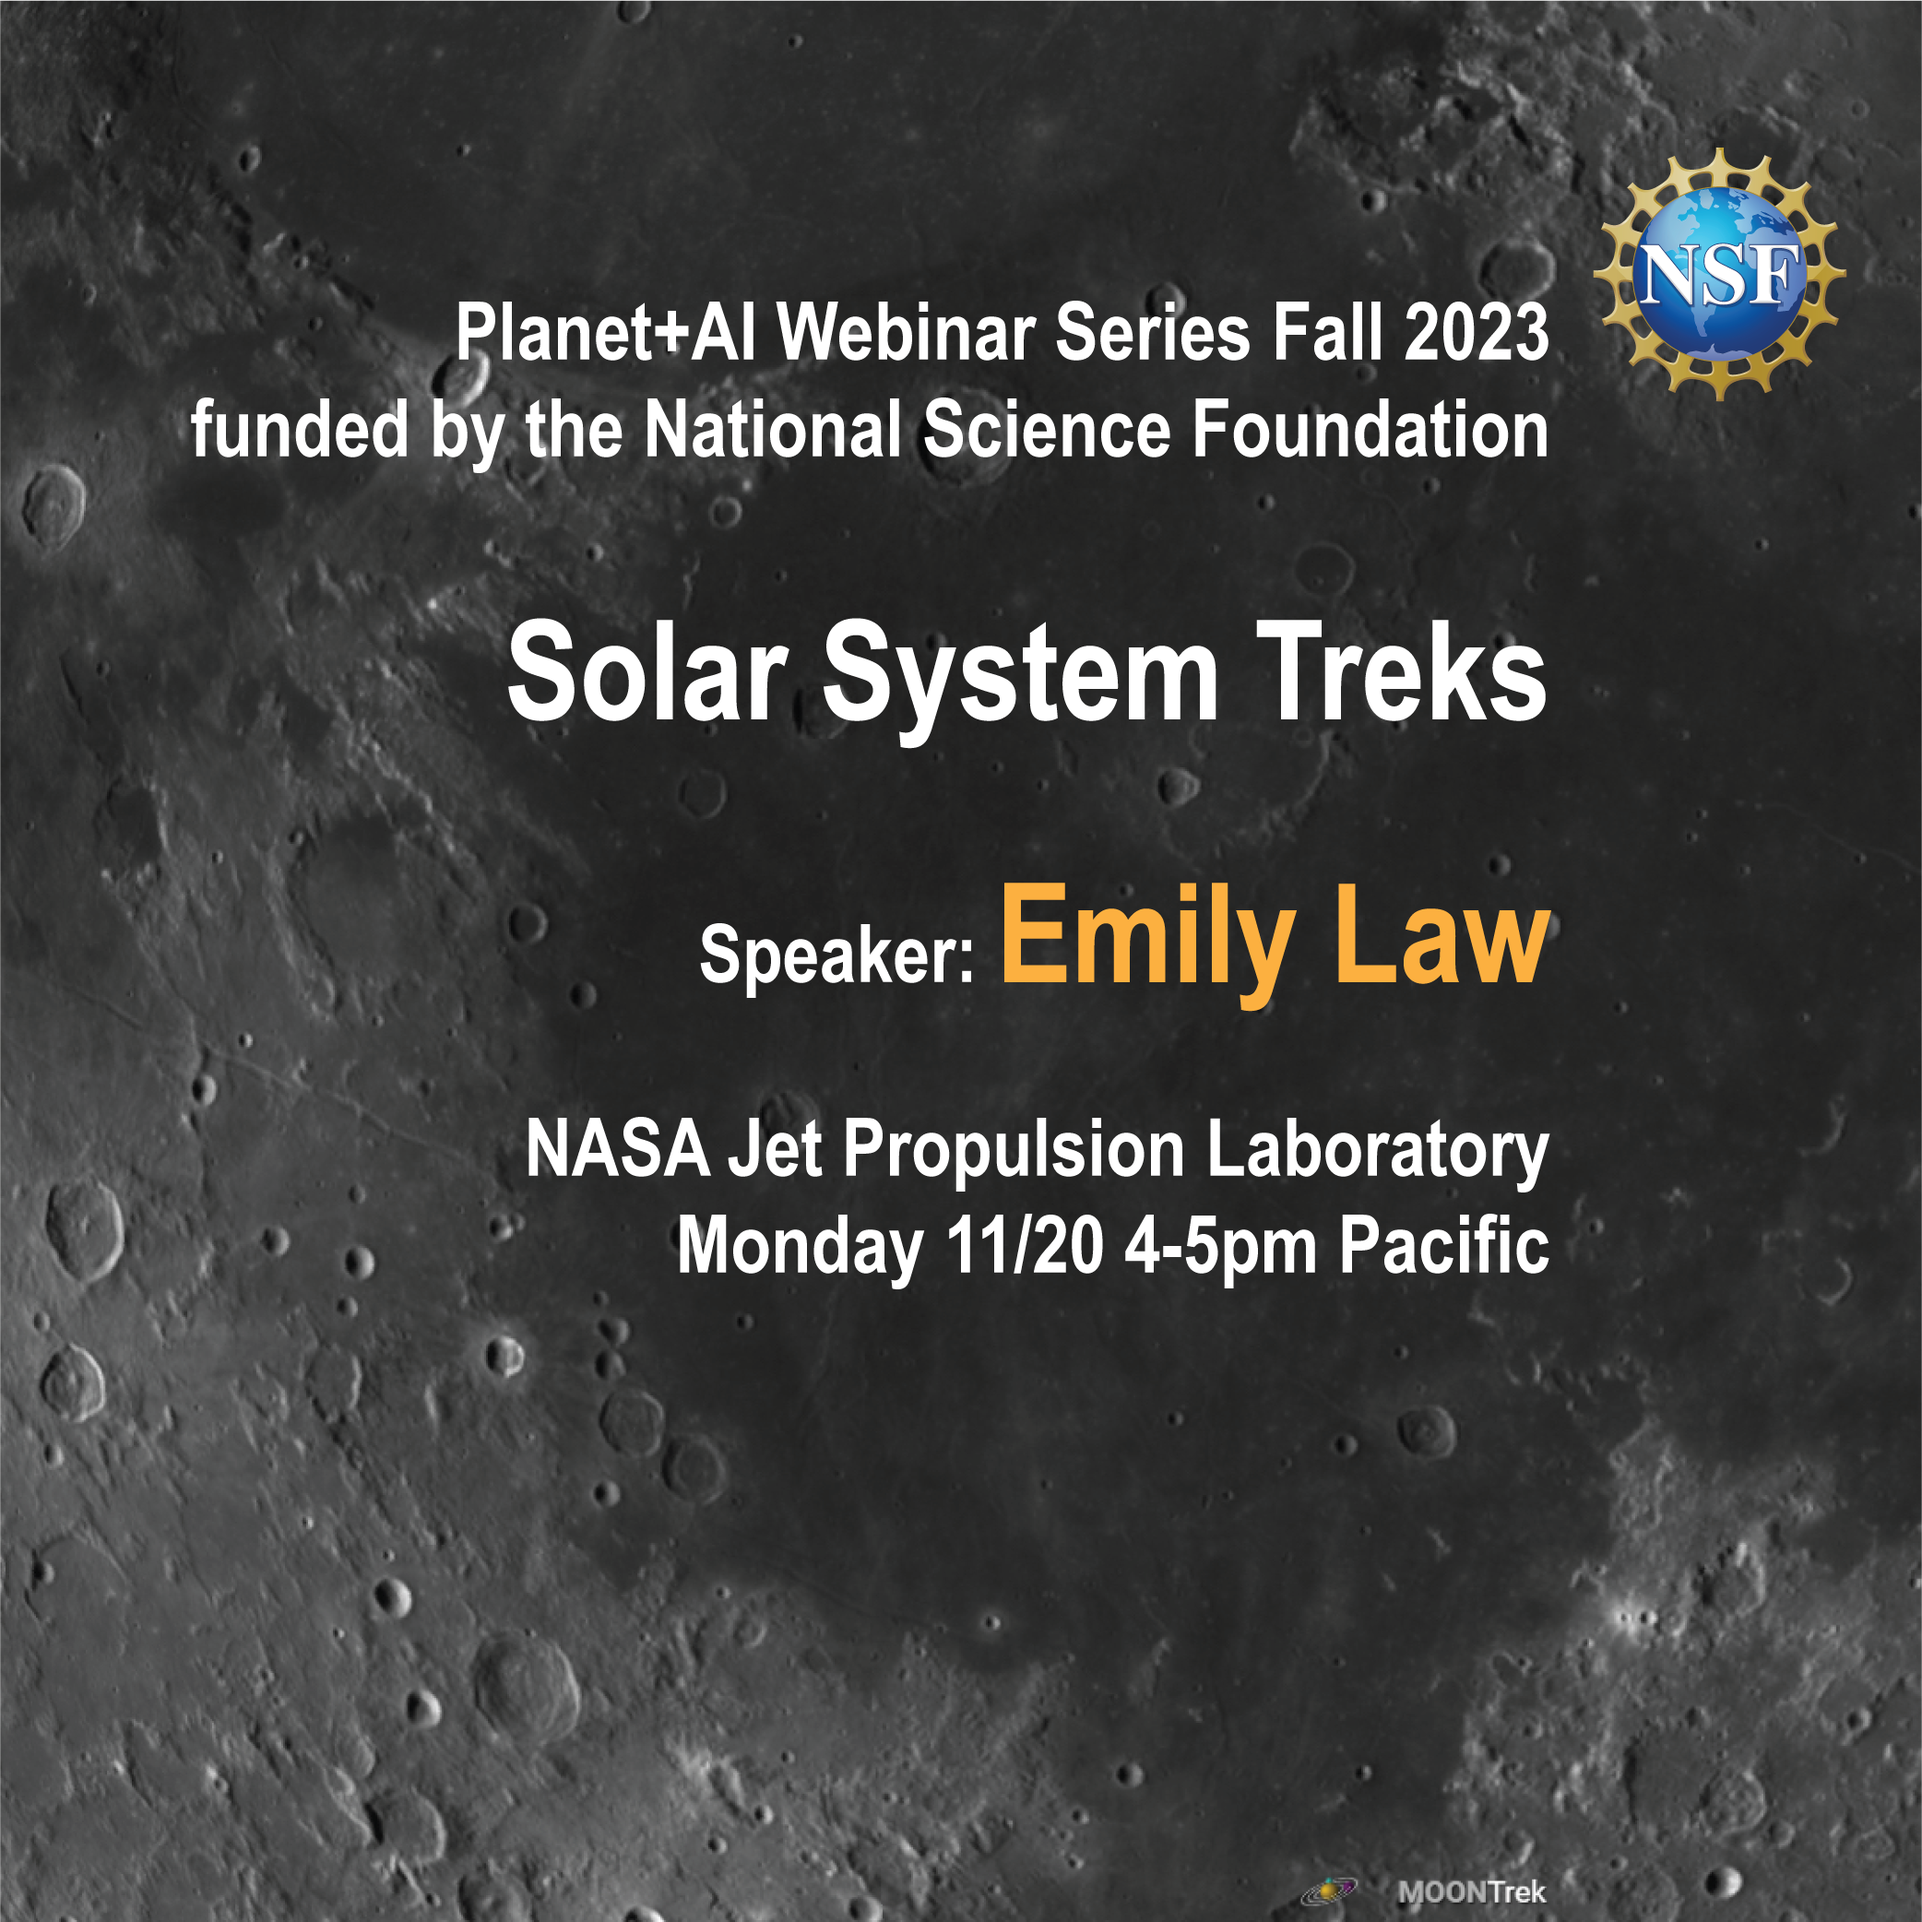
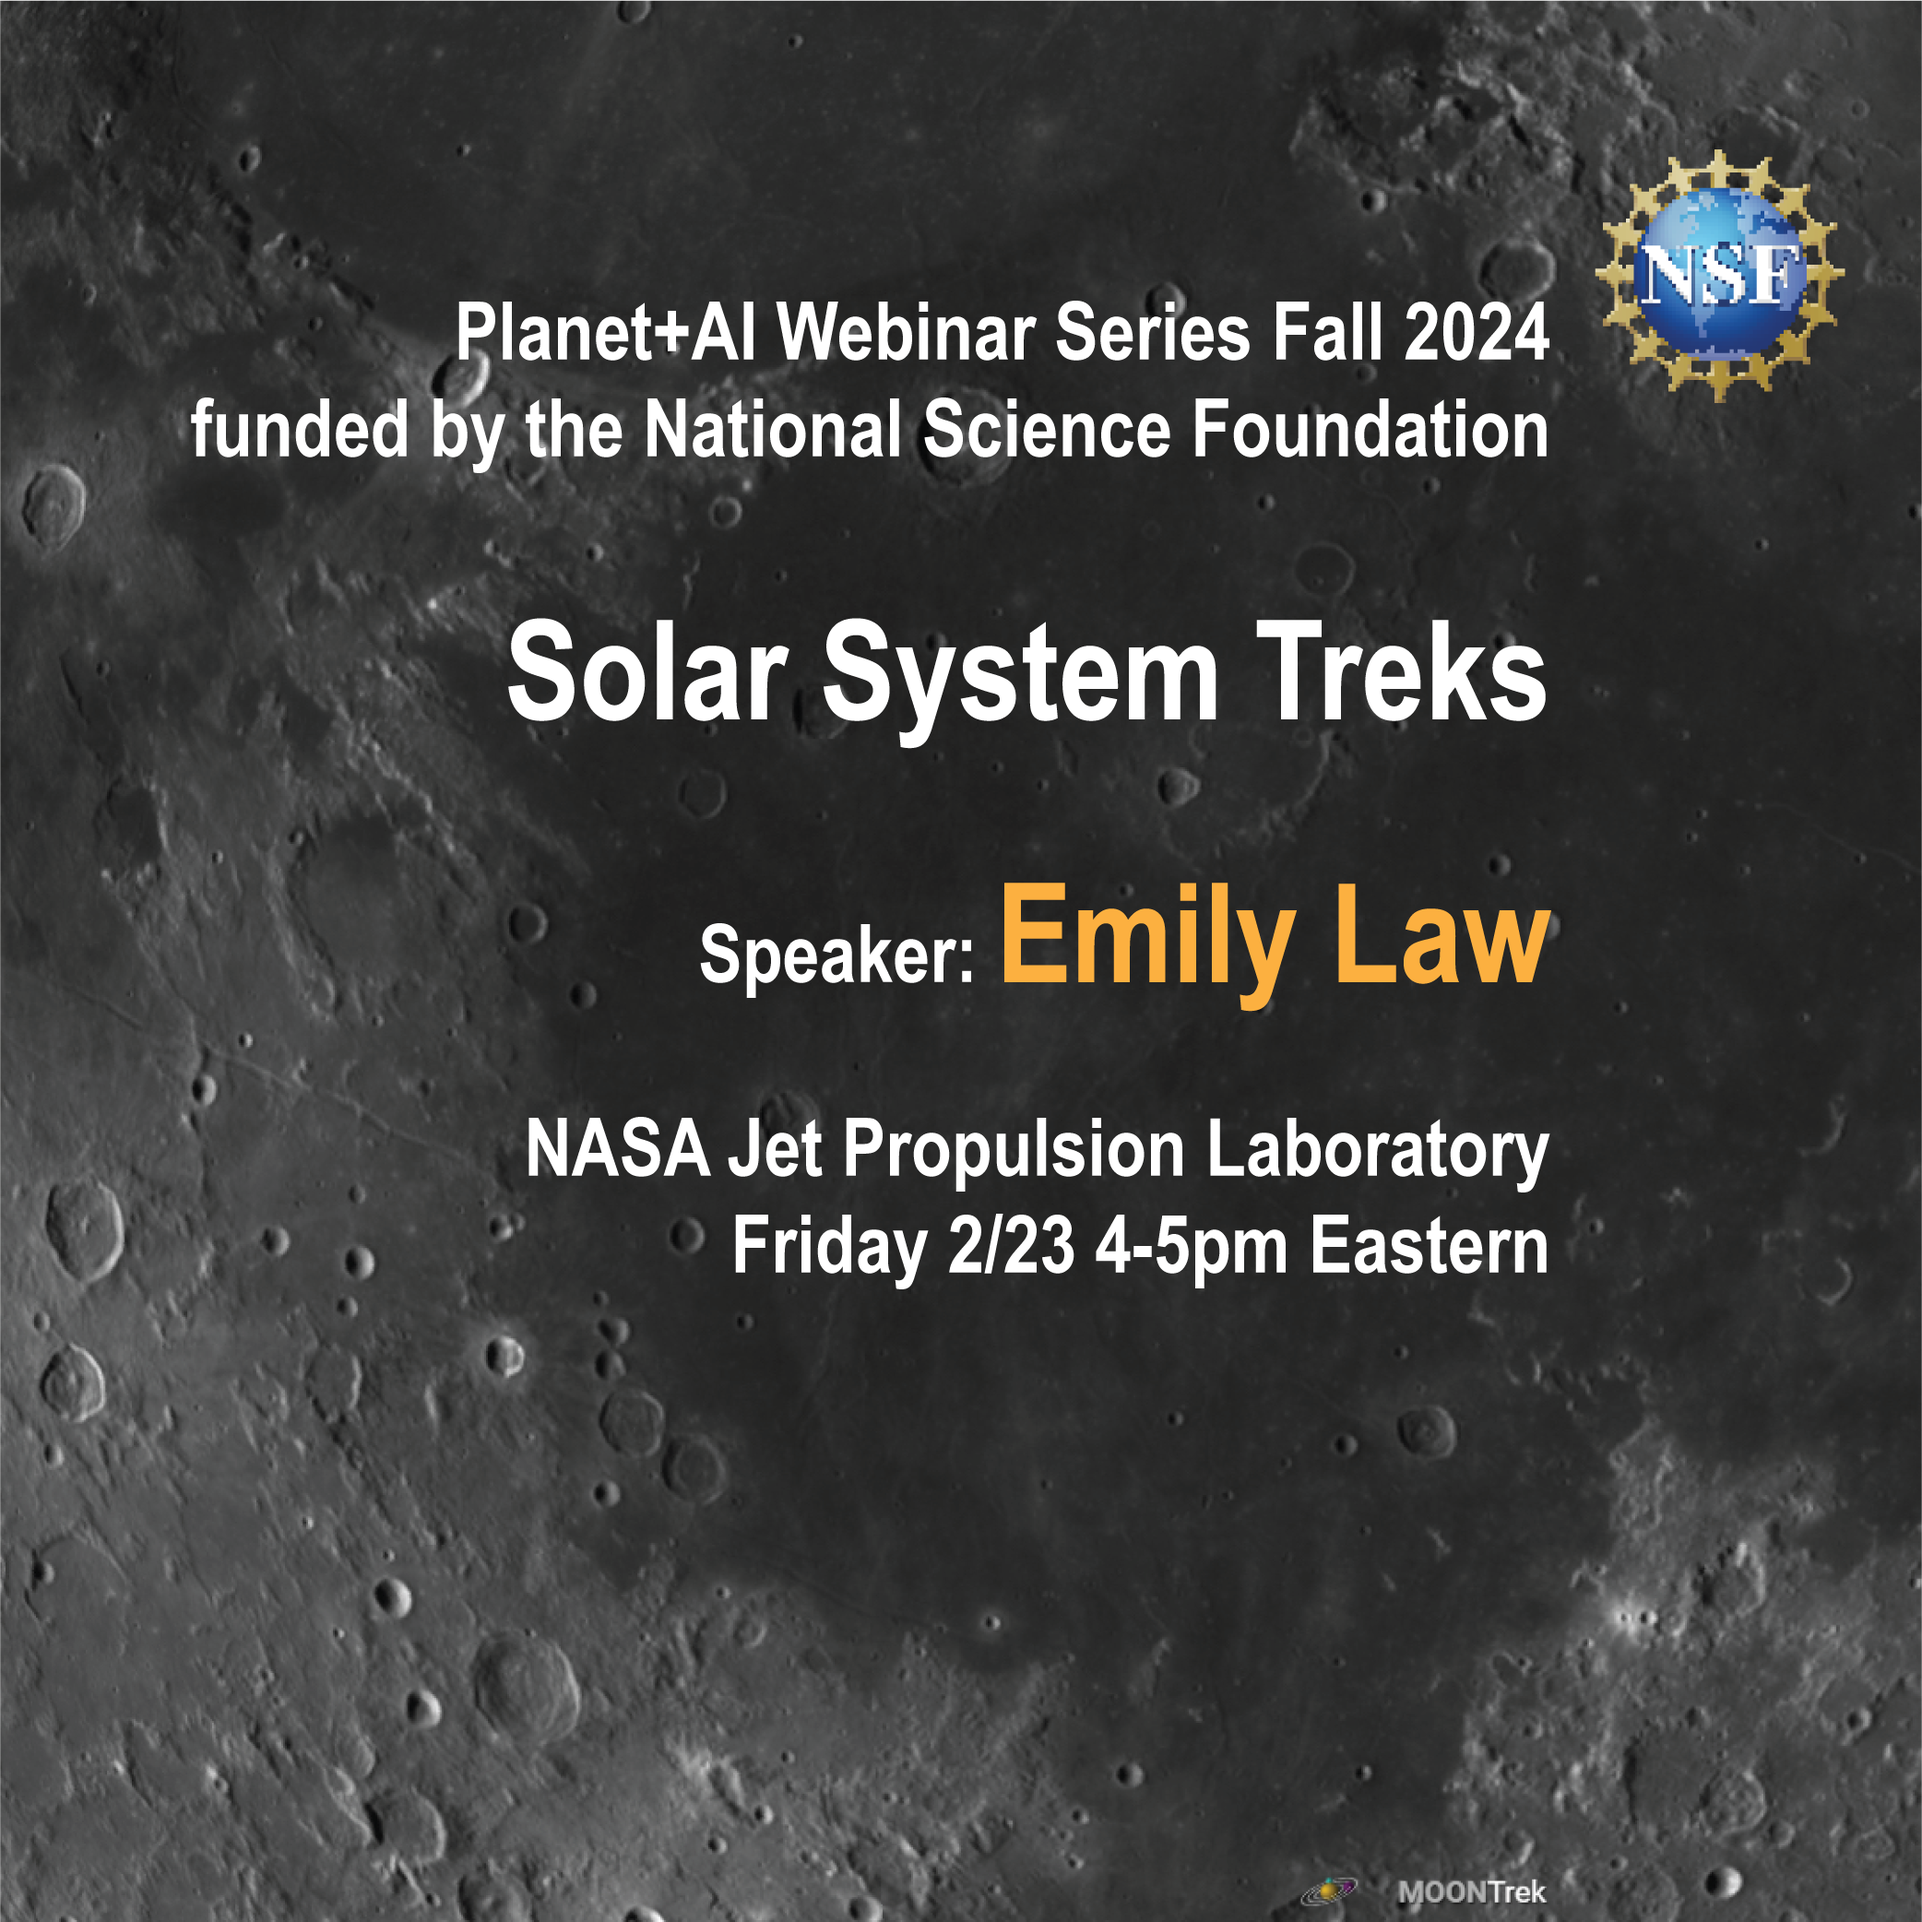
add

Changed region(s): [[0.3431, 0.6238, 0.8109, 0.6862], [0.8421, 0.0936, 0.9669, 0.2183], [0.7798, 0.156, 0.8109, 0.1871]]

diff --git a/_site/tags/index.html b/_site/tags/index.html
@@ -106,6 +106,30 @@
                     
                         <div class=" col-12 col-md-4 col-lg-3 mb-3 gx-5">
     <div class="card">
+        <a class="text-dark" href="/2023/12/31/our-creative-works-5/"><img class = "card-img-top" src="/assets/images/girl_f_7.png" alt="Our Creative Works [5]"></a>      
+        <div class="card-body">
+            <h3 class="card-title"><a class="text-dark" href="/2023/12/31/our-creative-works-5/">Our Creative Works [5]</a></h3>
+            <div class="article-tag">Tags: 
+                
+                    
+                    <a href="/tag/exhibits" class="tag">exhibits</a>
+                    
+                    <a href="/tag/AI" class="tag">AI</a>
+                    
+                
+                </div>    
+        </div>
+        
+    </div>
+</div>
+
+                    
+                
+            
+                
+                    
+                        <div class=" col-12 col-md-4 col-lg-3 mb-3 gx-5">
+    <div class="card">
         <a class="text-dark" href="/2023/12/31/our-creative-works-4/"><img class = "card-img-top" src="/assets/images/astronaut_3.png" alt="Our Creative Works [4]"></a>      
         <div class="card-body">
             <h3 class="card-title"><a class="text-dark" href="/2023/12/31/our-creative-works-4/">Our Creative Works [4]</a></h3>
@@ -756,7 +780,7 @@
                     
                         <div class=" col-12 col-md-4 col-lg-3 mb-3 gx-5">
     <div class="card">
-        <a class="text-dark" href="/2024/01/01/webinar-feb-23-solar-system-treks/"><img class = "card-img-top" src="/assets/images/emily.png" alt="Webinar on Feb 23: Solar System Treks"></a>      
+        <a class="text-dark" href="/2024/01/01/webinar-feb-23-solar-system-treks/"><img class = "card-img-top" src="/assets/images/emily_law.png" alt="Webinar on Feb 23: Solar System Treks"></a>      
         <div class="card-body">
             <h3 class="card-title"><a class="text-dark" href="/2024/01/01/webinar-feb-23-solar-system-treks/">Webinar on Feb 23: Solar System Treks</a></h3>
             <div class="article-tag">Tags: 
@@ -1167,6 +1191,30 @@
                 <h2 id="exhibits">Tag: <span class="text-capitalize">exhibits</span></h2>
             </div>
             
+            
+                
+                    
+                        <div class=" col-12 col-md-4 col-lg-3 mb-3 gx-5">
+    <div class="card">
+        <a class="text-dark" href="/2023/12/31/our-creative-works-5/"><img class = "card-img-top" src="/assets/images/girl_f_7.png" alt="Our Creative Works [5]"></a>      
+        <div class="card-body">
+            <h3 class="card-title"><a class="text-dark" href="/2023/12/31/our-creative-works-5/">Our Creative Works [5]</a></h3>
+            <div class="article-tag">Tags: 
+                
+                    
+                    <a href="/tag/exhibits" class="tag">exhibits</a>
+                    
+                    <a href="/tag/AI" class="tag">AI</a>
+                    
+                
+                </div>    
+        </div>
+        
+    </div>
+</div>
+
+                    
+                
             
                 
                     

diff --git a/_site/index.html b/_site/index.html
@@ -98,7 +98,7 @@
           
           <div class=" col-12 col-md-4 col-lg-3 mb-3 gx-5">
     <div class="card">
-        <a class="text-dark" href="/2024/01/01/webinar-feb-23-solar-system-treks/"><img class = "card-img-top" src="/assets/images/emily.png" alt="Webinar on Feb 23: Solar System Treks"></a>      
+        <a class="text-dark" href="/2024/01/01/webinar-feb-23-solar-system-treks/"><img class = "card-img-top" src="/assets/images/emily_law.png" alt="Webinar on Feb 23: Solar System Treks"></a>      
         <div class="card-body">
             <h3 class="card-title"><a class="text-dark" href="/2024/01/01/webinar-feb-23-solar-system-treks/">Webinar on Feb 23: Solar System Treks</a></h3>
             <div class="article-tag">Tags: 
@@ -123,6 +123,26 @@
                 
                     
                     <a href="/tag/events" class="tag">events</a>
+                    
+                
+                </div>    
+        </div>
+        
+    </div>
+</div>
+
+          
+          <div class=" col-12 col-md-4 col-lg-3 mb-3 gx-5">
+    <div class="card">
+        <a class="text-dark" href="/2023/12/31/our-creative-works-5/"><img class = "card-img-top" src="/assets/images/girl_f_7.png" alt="Our Creative Works [5]"></a>      
+        <div class="card-body">
+            <h3 class="card-title"><a class="text-dark" href="/2023/12/31/our-creative-works-5/">Our Creative Works [5]</a></h3>
+            <div class="article-tag">Tags: 
+                
+                    
+                    <a href="/tag/exhibits" class="tag">exhibits</a>
+                    
+                    <a href="/tag/AI" class="tag">AI</a>
                     
                 
                 </div>    
@@ -503,24 +523,6 @@
         <a class="text-dark" href="/2023/09/23/webinar-oct-5-mars-daily-global-maps/"><img class = "card-img-top" src="/assets/images/helen_w.png" alt="Webinar on Oct 5: Mars Daily Global Maps"></a>      
         <div class="card-body">
             <h3 class="card-title"><a class="text-dark" href="/2023/09/23/webinar-oct-5-mars-daily-global-maps/">Webinar on Oct 5: Mars Daily Global Maps</a></h3>
-            <div class="article-tag">Tags: 
-                
-                    
-                    <a href="/tag/events" class="tag">events</a>
-                    
-                
-                </div>    
-        </div>
-        
-    </div>
-</div>
-
-          
-          <div class=" col-12 col-md-4 col-lg-3 mb-3 gx-5">
-    <div class="card">
-        <a class="text-dark" href="/2023/09/23/python-for-apollo-thin-sections/"><img class = "card-img-top" src="/assets/images/ilmenite.png" alt="Python for Apollo Thin Sections"></a>      
-        <div class="card-body">
-            <h3 class="card-title"><a class="text-dark" href="/2023/09/23/python-for-apollo-thin-sections/">Python for Apollo Thin Sections</a></h3>
             <div class="article-tag">Tags: 
                 
                     

diff --git a/_site/tag/exhibits/index.html b/_site/tag/exhibits/index.html
@@ -74,6 +74,26 @@
           
             <div class=" col-12 col-md-4 col-lg-3 mb-3 gx-5">
     <div class="card">
+        <a class="text-dark" href="/2023/12/31/our-creative-works-5/"><img class = "card-img-top" src="/assets/images/girl_f_7.png" alt="Our Creative Works [5]"></a>      
+        <div class="card-body">
+            <h3 class="card-title"><a class="text-dark" href="/2023/12/31/our-creative-works-5/">Our Creative Works [5]</a></h3>
+            <div class="article-tag">Tags: 
+                
+                    
+                    <a href="/tag/exhibits" class="tag">exhibits</a>
+                    
+                    <a href="/tag/AI" class="tag">AI</a>
+                    
+                
+                </div>    
+        </div>
+        
+    </div>
+</div>
+                
+          
+            <div class=" col-12 col-md-4 col-lg-3 mb-3 gx-5">
+    <div class="card">
         <a class="text-dark" href="/2023/12/31/our-creative-works-4/"><img class = "card-img-top" src="/assets/images/astronaut_3.png" alt="Our Creative Works [4]"></a>      
         <div class="card-body">
             <h3 class="card-title"><a class="text-dark" href="/2023/12/31/our-creative-works-4/">Our Creative Works [4]</a></h3>

diff --git a/_site/tag/events/index.html b/_site/tag/events/index.html
@@ -92,7 +92,7 @@
           
             <div class=" col-12 col-md-4 col-lg-3 mb-3 gx-5">
     <div class="card">
-        <a class="text-dark" href="/2024/01/01/webinar-feb-23-solar-system-treks/"><img class = "card-img-top" src="/assets/images/emily.png" alt="Webinar on Feb 23: Solar System Treks"></a>      
+        <a class="text-dark" href="/2024/01/01/webinar-feb-23-solar-system-treks/"><img class = "card-img-top" src="/assets/images/emily_law.png" alt="Webinar on Feb 23: Solar System Treks"></a>      
         <div class="card-body">
             <h3 class="card-title"><a class="text-dark" href="/2024/01/01/webinar-feb-23-solar-system-treks/">Webinar on Feb 23: Solar System Treks</a></h3>
             <div class="article-tag">Tags: 

diff --git a/_posts/2023-12-31-our-creative-works-5.md b/_posts/2023-12-31-our-creative-works-5.md
@@ -1,0 +1,66 @@
+---
+layout: post
+title:  "Our Creative Works [5]"
+date: 2023-12-31
+image: assets/images/girl_f_7.png
+tags: [ exhibits, AI ]
+---
+
+The following were some of our works by experimenting with emerging AI tools in the past few years.
+
+<br>
+<div class="row">
+    <div class="col-md-8">
+        <div><img src="/assets/images/astronaut_watercolor.png" class="img-fluid" /></div>
+    </div>
+</div>
+<br/>
+
+<div class="row">
+    <div class="col-md-8">
+        <div><img src="/assets/images/girl_f_1.png" class="img-fluid" /></div>
+    </div>
+</div>
+<br/>
+
+<div class="row">
+    <div class="col-md-8">
+        <div><img src="/assets/images/girl_f_2.png" class="img-fluid" /></div>
+    </div>
+</div>
+<br/>
+
+<div class="row">
+    <div class="col-md-8">
+        <div><img src="/assets/images/girl_f_3.png" class="img-fluid" /></div>
+    </div>
+</div>
+<br/>
+
+<div class="row">
+    <div class="col-md-8">
+        <div><img src="/assets/images/girl_f_4.png" class="img-fluid" /></div>
+    </div>
+</div>
+<br/>
+
+<div class="row">
+    <div class="col-md-8">
+        <div><img src="/assets/images/girl_f_5.png" class="img-fluid" /></div>
+    </div>
+</div>
+<br/>
+
+<div class="row">
+    <div class="col-md-8">
+        <div><img src="/assets/images/girl_f_6.png" class="img-fluid" /></div>
+    </div>
+</div>
+<br/>
+
+<div class="row">
+    <div class="col-md-7">
+        <div><img src="/assets/images/girl_f_7.png" class="img-fluid" /></div>
+    </div>
+</div>
+<br/>

diff --git a/_posts/2024-1-1-webinar-feb-23-solar-system-treks.md b/_posts/2024-1-1-webinar-feb-23-solar-system-treks.md
@@ -2,7 +2,7 @@
 layout: post
 title:  "Webinar on Feb 23: Solar System Treks"
 date: 2024-1-1
-image: assets/images/emily.png
+image: assets/images/emily_law.png
 tags: [ events ]
 ---
 
